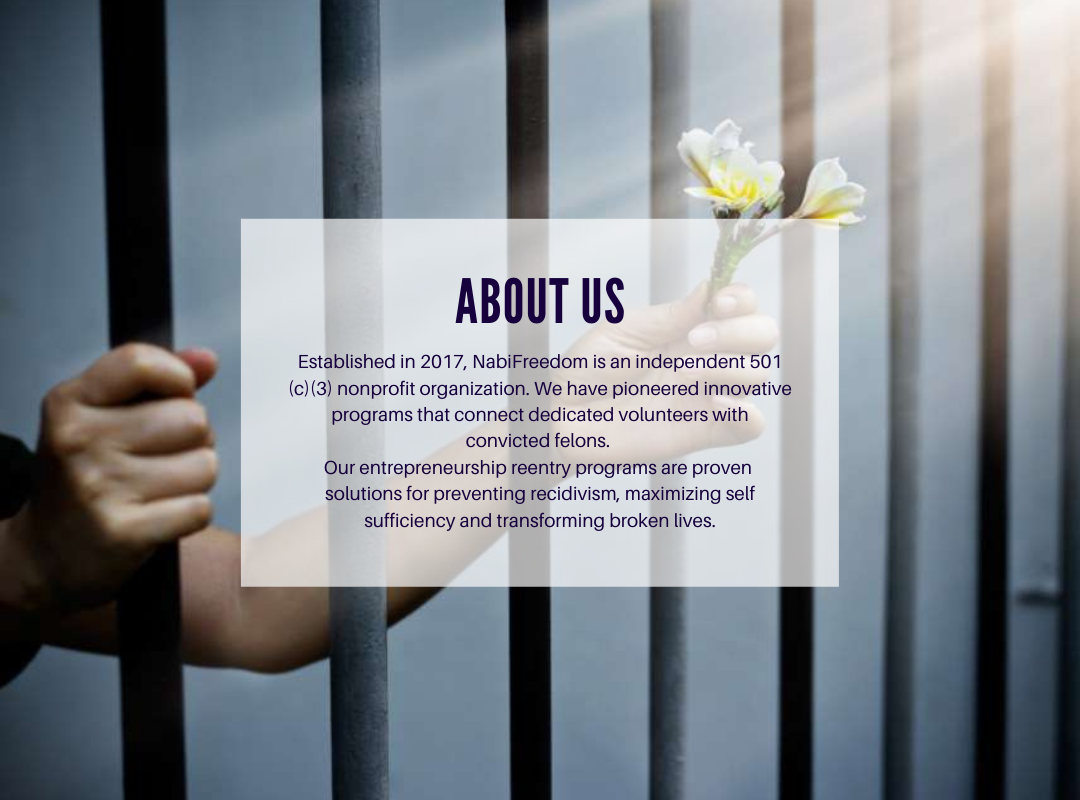
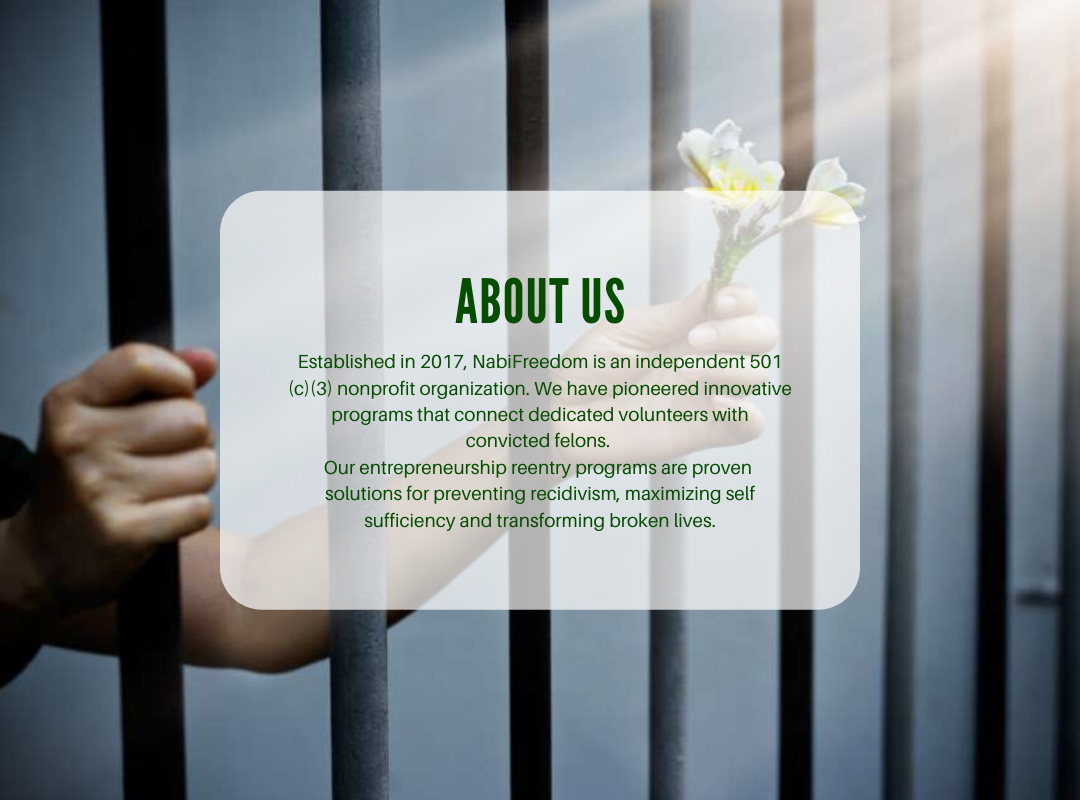
Fresh start

Changed region(s): [[0.1833, 0.2188, 0.7944, 0.7812], [0.275, 0.4375, 0.7333, 0.6562], [0.3972, 0.3438, 0.5806, 0.4062]]

diff --git a/public/styles/freshStart.css b/public/styles/freshStart.css
@@ -1,0 +1,102 @@
+.container{
+    display: flex;
+    flex-direction: column;
+    justify-content: center;
+  }
+  .navigation-bar {
+    margin-top: 6%;
+    padding-top: 0;
+    padding-left: 10%;
+    float: right;
+    
+  }
+  .logo {
+    margin-top: -2%;
+    margin-left: 15%;
+    float: left;
+    width: 20%;
+    height: auto;
+   
+  }
+  .navigation-bar > a {
+    padding: 2%;
+    padding-left: 0.5%;
+    color: #17023d;
+    font-family: sans-serif;
+    font-size: large;
+    text-decoration: none;
+    
+  }
+  a:hover{
+  color: gray;
+  }
+  #donate{
+  color: red;
+  }
+  #donate:hover{
+  text-decoration: underline;
+  font-weight: bold;
+  
+  }
+  .home-image{
+  margin-left: 17%;
+  margin-top: 5%;
+  }
+  
+  .login{
+    margin-bottom:10%;
+    float: right;
+    color: #17023d;
+    font-family: sans-serif;
+  }
+  
+  footer{
+    padding-top: 3%;
+    font-family: sans-serif;
+    color: #17023d;
+    text-align: center;
+    font-size: medium;
+  }
+
+.box1 {
+    /* height: 80%;
+    width:100%;
+    margin-left:13%; */
+    margin-top: 10vh;
+    width: 100%;
+    height: 100%; 
+    background-image: url("/images/empower.png");
+    /* background-size: cover; */
+    background-attachment: fixed;
+    background-position: center;
+    background-repeat: no-repeat;
+    background-size: contain;
+  }
+  .box2 {
+    /* height: 80%;
+    width: 100%; */
+    height: 100%; 
+    background-image: url("/images/potential.png");
+    /* background-size: cover; */
+    background-attachment: fixed;
+    background-position: center;
+    background-repeat: no-repeat;
+    background-size: contain;
+  }
+  
+  .box3 {
+    /* height: 100vh;
+    width: 100vw; */
+    height: 100%;
+    background-image: url("/images/start.png");
+    /* background-size: cover; */
+    background-attachment: fixed;
+    background-position: center;
+    background-repeat: no-repeat;
+    background-size: contain;
+  }
+  .interior{
+    background-color: #17023d;
+    margin-left:0;
+  
+  }  

diff --git a/app.js b/app.js
@@ -2,10 +2,10 @@ const express = require("express")
 const app = express()
 const bodyParser = require("body-parser")
 const accountRouter = require("./routes/account-router")
+
 const aboutUs = require("./routes/aboutUs")
-
+const freshStart = require("./routes/freshStart")
 const donationRouter = require("./routes/donation")
-
 const contactUs = require("./routes/contactUs")
 
 app.set("view engine", "pug")
@@ -22,6 +22,8 @@ app.use("/aboutUs", aboutUs)
 app.use("/contactUs", contactUs)
 
 app.use("/donation", donationRouter)
+
+app.use("/freshStart", freshStart)
 
 
 

diff --git a/public/styles/layout.css b/public/styles/layout.css
@@ -36,9 +36,11 @@ a:hover{
   
 }
 .home-image{
-  width: 100%;
-  height: auto;
-  margin-left: 15%;
+  display: block;
+  
+  /* margin-left: 15%; */
+  margin-left: 30vh;
+  margin-right: auto;
   margin-top: 5%;
 }
 

diff --git a/routes/freshStart.js b/routes/freshStart.js
@@ -1,0 +1,6 @@
+const express = require ("express");
+const router = express.Router();
+router.get("/", (req,res) => {
+    res.render("freshStart")
+});
+module.exports = router;
